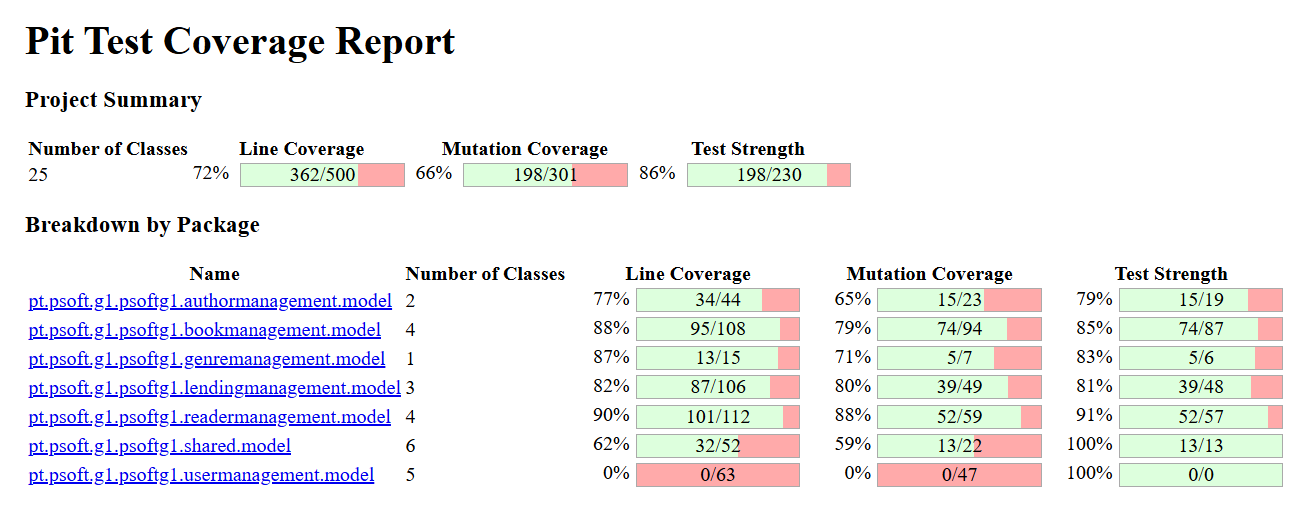
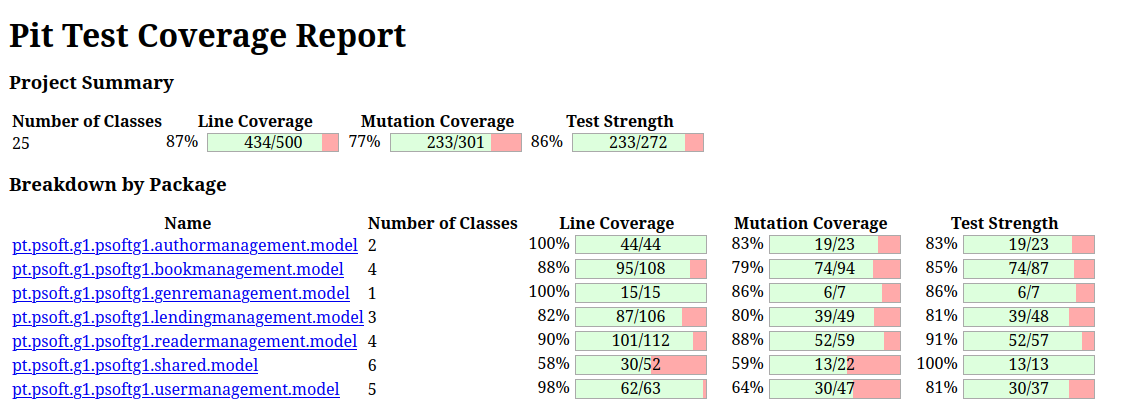
Update Test Graphs

diff --git a/Deliverables/Report.md b/Deliverables/Report.md
@@ -299,11 +299,14 @@ Although some code was exercised, the lack of true unit-level focus and poor ass
 ### After Improvements
 
 JaCoCo Coverage Reports (Expected):
-- Line coverage: ≈ X% 
-- Branch coverage: ≈ Y%
+- Line coverage: ≈ 39.75%
+- Branch coverage: ≈ 11.97%
+
+![CoverageAfter.png](Diagrams/CoverageAfter.png)
+
 
 PIT Mutation Testing (Model Package):
-- Mutation coverage: 66%
+- Mutation coverage: 77%
 - Test strength: 86%
 
 ![MutationCoverageAfter.png](Diagrams/MutationCoverageAfter.png)
@@ -313,3 +316,8 @@ Test Quality:
 - Mocking frameworks were introduced to decouple dependencies.
 - Mutation testing was used iteratively to identify weak tests and strengthen them.
 - These improvements led to a substantial increase in mutation coverage, indicating that a larger portion of the codebase is now effectively validated by meaningful tests.
+
+Pipeline Tests Overview:
+
+![GraphLineBranchCoverageTest.png](Diagrams/GraphLineBranchCoverageTest.png)
+![CoverageTrend.png](Diagrams/CoverageTrend.png)
